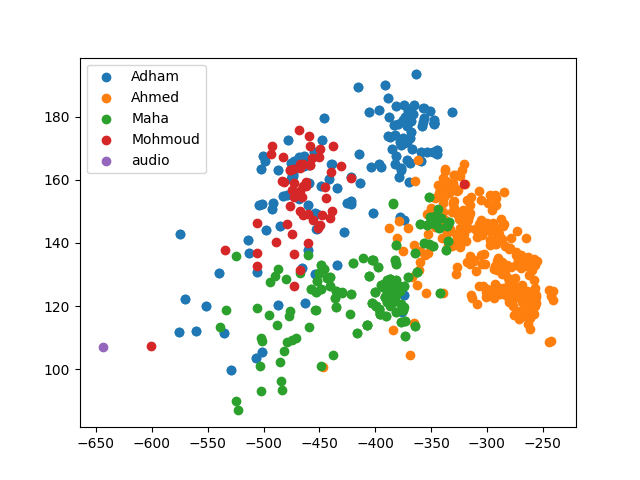
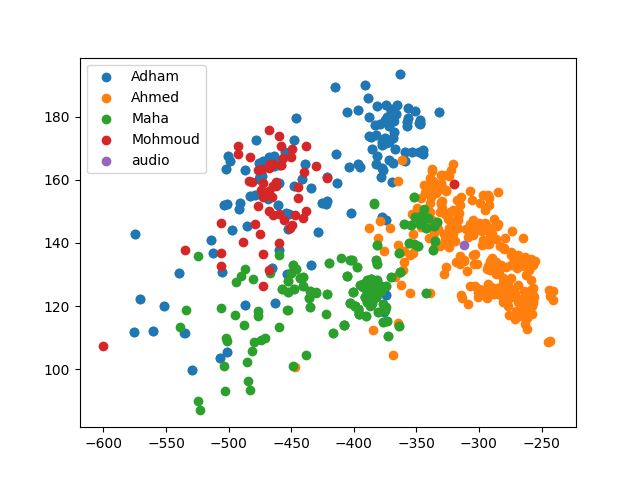
figure updates once -Sarta

diff --git a/static/js/audio_recording.js b/static/js/audio_recording.js
@@ -119,7 +119,7 @@ function createDownloadLink(blob) {
         success: function(res) {
 			// $('#message').text(res).show()
 			display_message(res) //send the response to the message element
-			// update_figures()
+			update_figures()
 			// alert(res)
         },
     });
